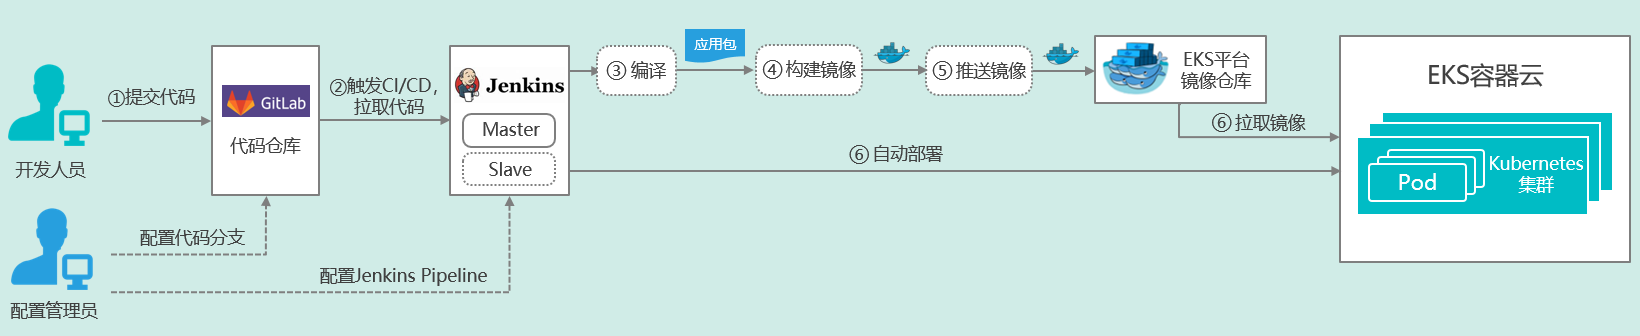
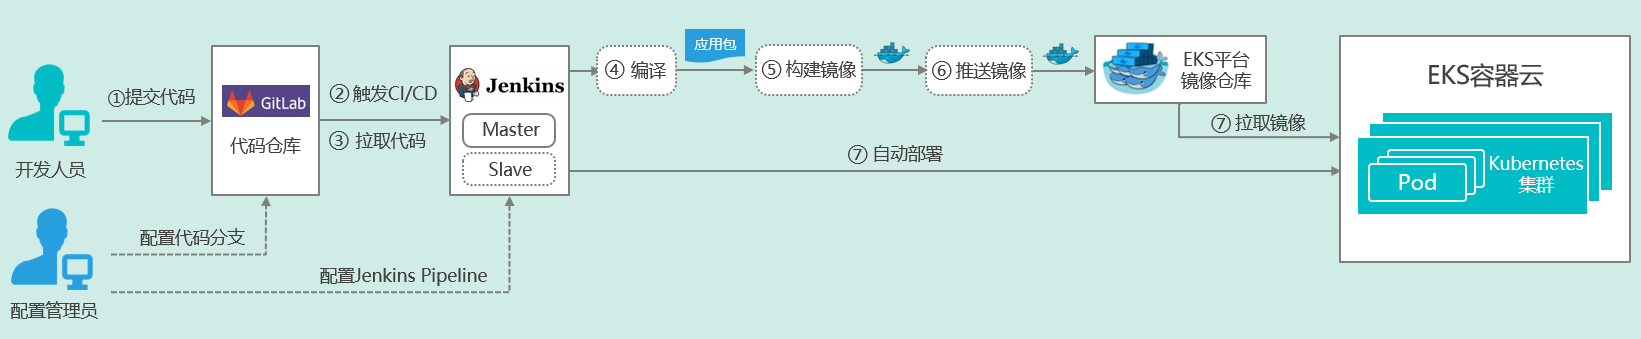
commit

diff --git a/CICD-document.md b/CICD-document.md
@@ -2,10 +2,10 @@
 ## 概述
 本文档为基于EKS V4.0.2易捷行云容器云平台的CI/CD（持续集成/持续部署）场景实践指南，主要包含以下两部分：  
 1. 在EKS平台上部署CI/CD工具链；
-2. 借助微服务应用实例，进行CI/CD场景演示。  
+2. 借助微服务应用示例，进行CI/CD场景演示。  
 
 ## 场景描述（描述环境，以及cicd流程，并补充架构图）
-1. CI/CD工具链基于业界目前主流、通用的开源软件构建。  
+1. CI/CD工具链基于业界目前主流、通用的开源软件构建，均在EKS平台中基于Kubernetes进行部署。  
 <table>
    <tr>
       <td>序号</td>
@@ -30,29 +30,22 @@
    </tr>
 </table>  
 
-1. CI/CD工具链可通过以下两种方式在EKS平台上部署：  
-   1）通过EKS平台的UI界面直接完成部署；    
+2. CI/CD工具链可通过以下两种方式在EKS平台上部署：  
+   1）通过EKS平台的UI界面直接完成部署，其中Jenkins Slave通过Jenkins Master调用EKS接口生成；    
    2）通过Helm完成CI/CD工具链在EKS中的部署（待补充）。   
 
-2. 微服务应用实例基于Dubbo微服务框架实现，CI/CD场景演示包括源代码上传、编译、镜像构建、推送镜像以及应用部署。    
+3. 微服务应用示例基于Dubbo微服务框架实现，使用Java编程语言，采用Maven进行编译。CI/CD场景演示主要包括源代码上传、编译、镜像构建、推送镜像以及应用自动部署等。    
 
-## CI/CD流程描述：  
-1.	Gitlab 与 Jenkins集成，实现 git push 提交代码，业务自动上线运行，无需人工干预安装过程。
-2.	JenKins 与 Maven集成，实现项目代码自动编译。
-3.	Jenkins与Docker进行集成，实现镜像自动编译、和发布到Harbor。
-4.	Jenkins与 Spinnaker集成，实现Spinnaker管理CI等Jenkins流程
-5.	Spinnaker与kubernetes 进行集成，进行分布式构建任务，实现应用自动发布。
+## CI/CD流程描述  
 整体CI/CD场景流程图如下所示：  
 ![流程图](Images/flow-chart-for-CICD.png)   
-
-## 环境说明（这段可删除）
-1.	GitLab在EKS中进行部署，采用docker.io/library/gitlab: 9.5.3-ce.0镜像
-2.	Jenkins通过容器进行部署，采用Jenkins:2.46.2
-3.	Jenkins 中的Docker build地址通过虚拟机安装Docker服务配置暴露地址
-4.	Zookeeper采用容器部署(最新)或者ECS中大数据组件中Zookeeper
-5.	Dubbo Demo源代码地址：git@github.com:ylcao/dubbo.git
-6.	Spinnaker Helm部署程序地址：https://github.com/ylcao/spinnaker-k8s/tree/master/kubernetes-helm-spinnaker
-7.	ESCloud 4.0.2
+1. 提交代码：开发人员通过Git工具提交代码至GitLab代码仓库的对应分支； 
+2. 触发CI/CD：GitLab与Jenkins集成，当检测到相应分支的代码更新时，自动触发CI/CD流水线，Jenkins Master将会在EKS中自动创建Jenkins Slave，并执行后续CI/CD流程；  
+3. 拉取代码：Jenkins Slave自动从GitLab中拉取更新的代码；  
+4. 代码编译：Jenkins Slave执行代码编译，生成应用包；  
+5. 镜像构建：Jenkins Slave执行Docker镜像构建；  
+6. 推送镜像：Jenkins Slave将生成的Docker镜像推送至EKS的镜像仓库中；  
+7. 自动部署：使用新版本镜像，Jenkins Slave将新版本应用部署至EKS平台中。  
 
 
 ## 操作流程说明  
